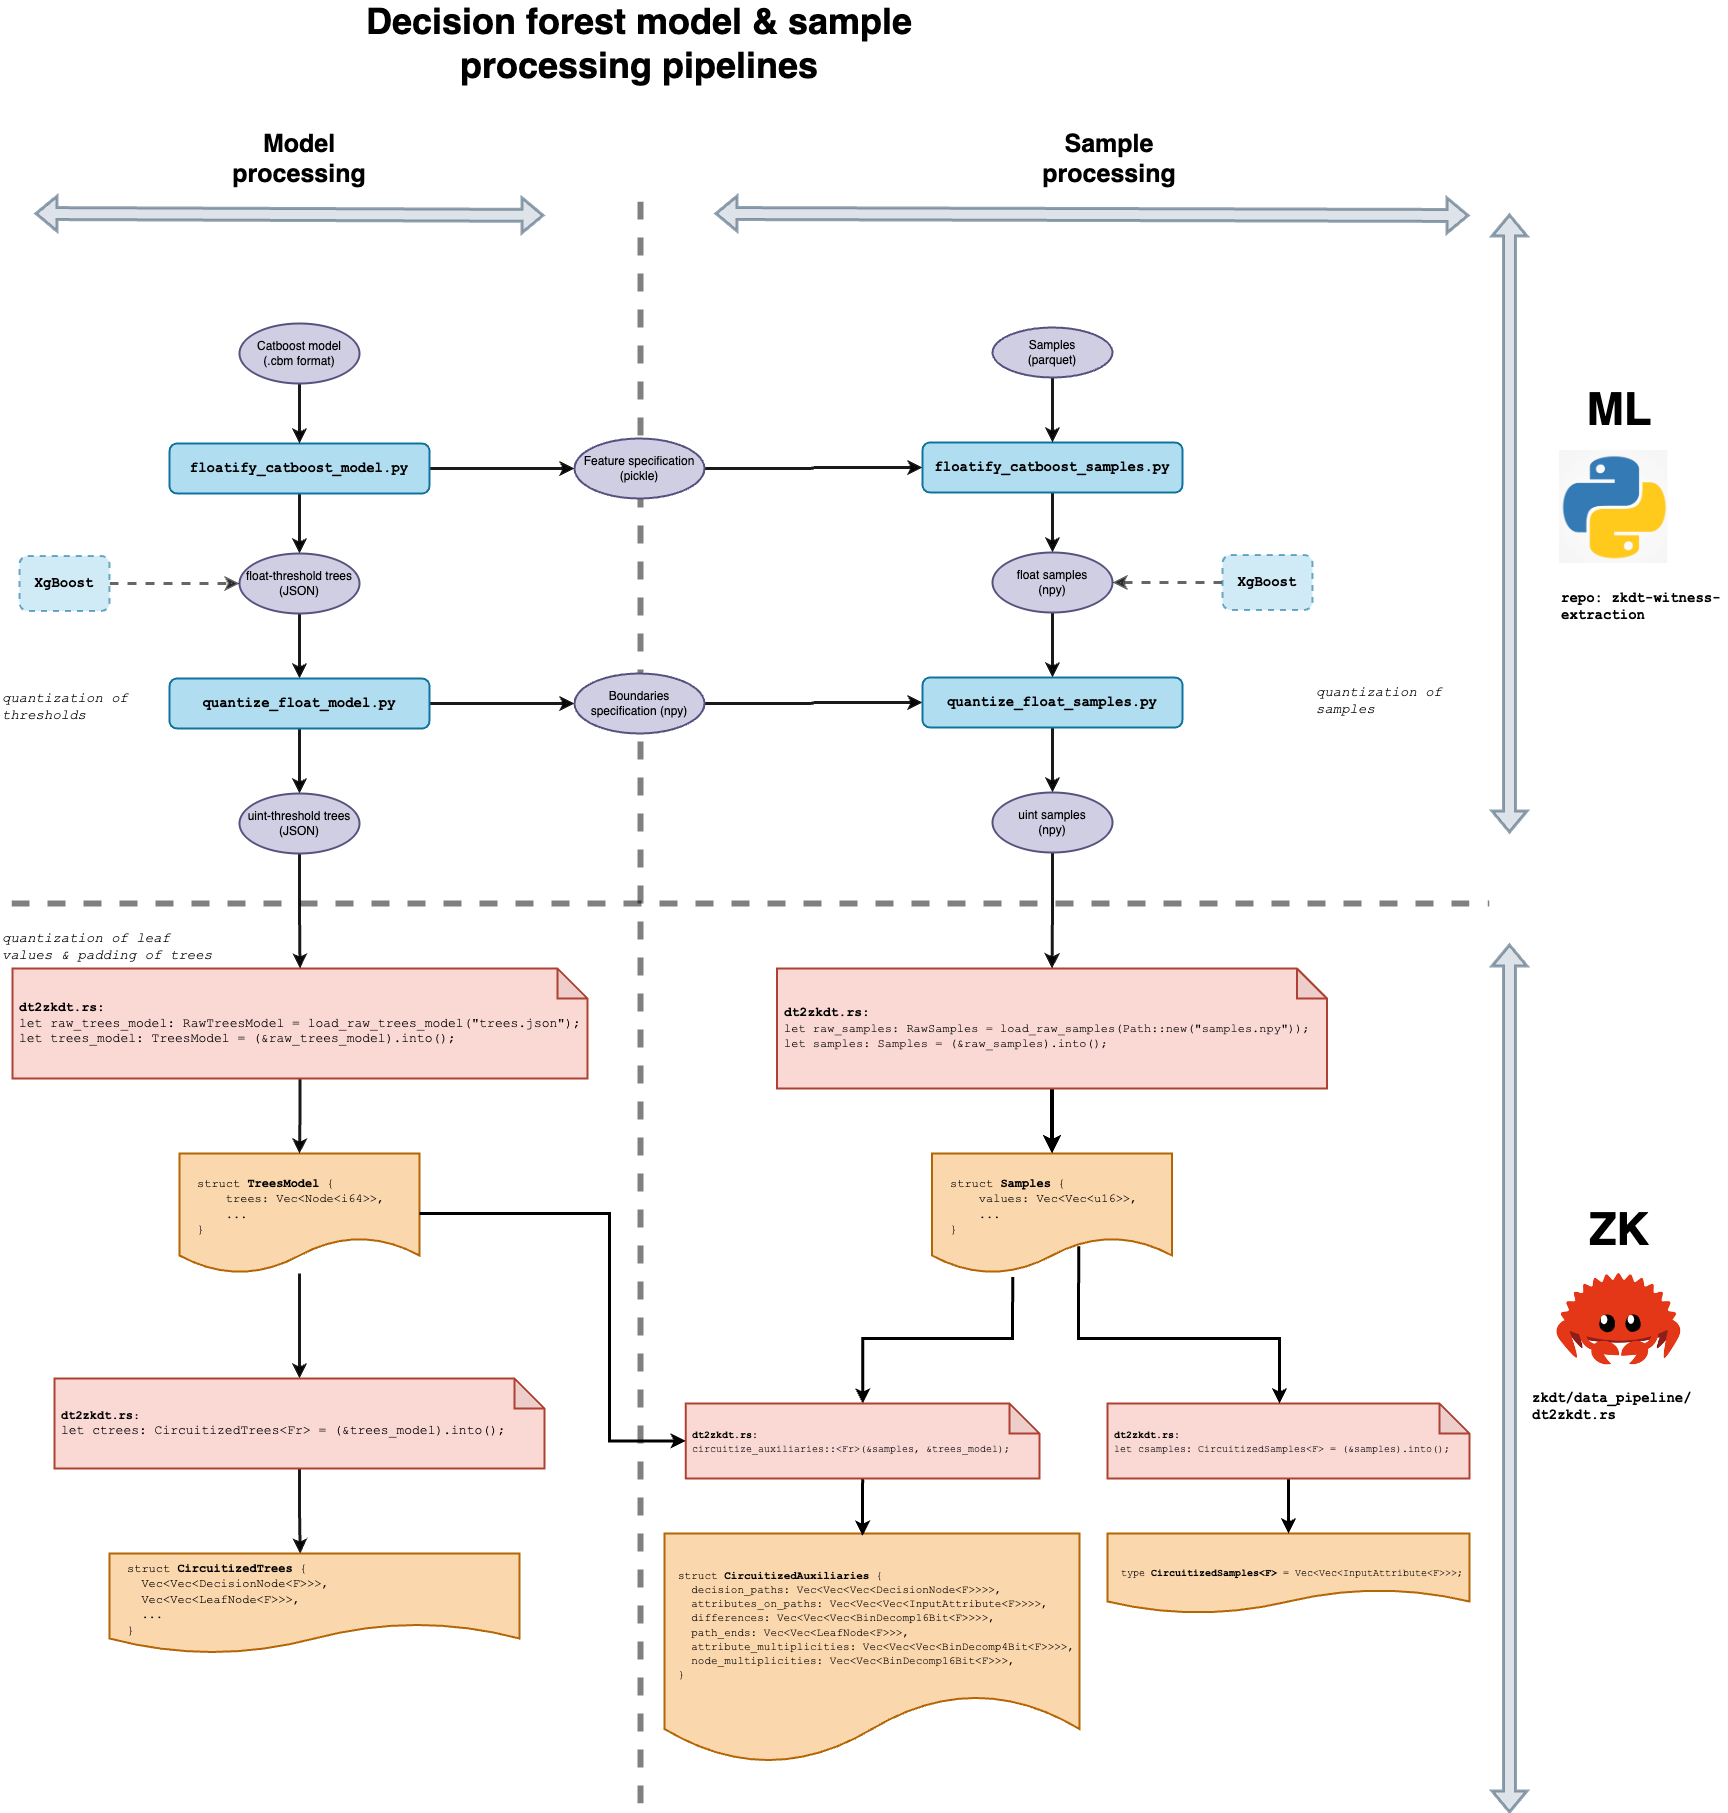
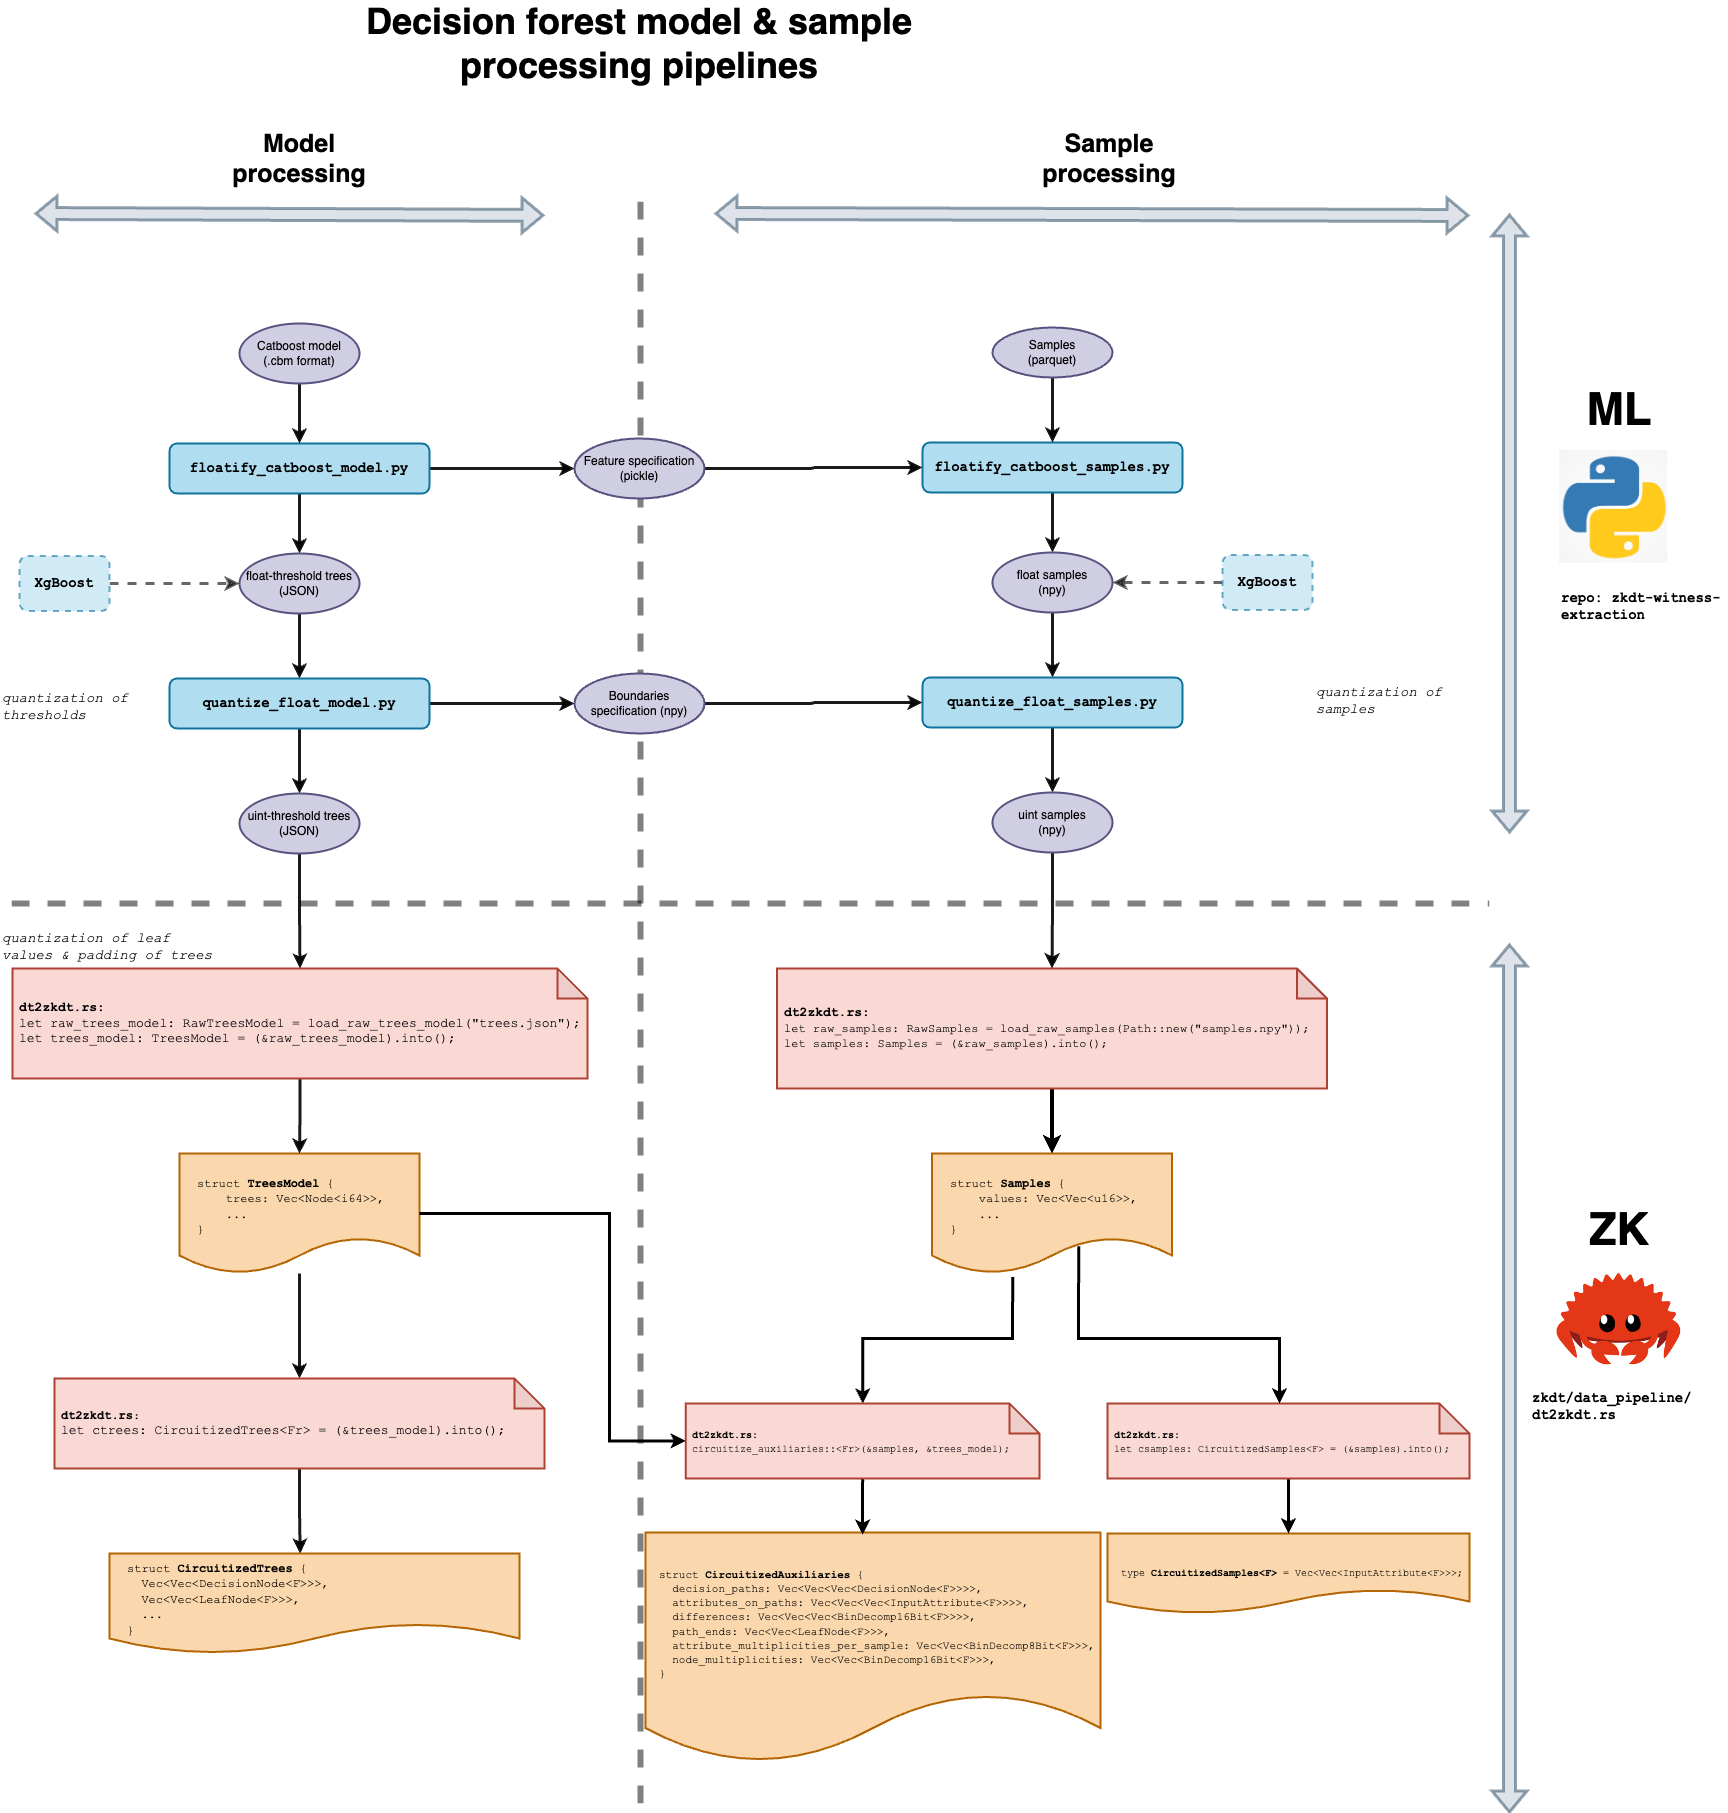
New auxiliary witness for attrib mult. aggd over trees

Changed region(s): [[0.375, 0.834, 0.6562, 0.9575]]

diff --git a/remainder_prover/src/zkdt/data_pipeline/dt2zkdt.rs b/remainder_prover/src/zkdt/data_pipeline/dt2zkdt.rs
@@ -64,7 +64,7 @@ use crate::zkdt::constants::{
 use crate::zkdt::data_pipeline::trees::*;
 use crate::zkdt::data_pipeline::helpers::*;
 use crate::zkdt::input_data_to_circuit_adapter::ZKDTCircuitData;
-use crate::zkdt::structs::{BinDecomp16Bit, BinDecomp4Bit, DecisionNode, InputAttribute, LeafNode};
+use crate::zkdt::structs::{BinDecomp16Bit, BinDecomp8Bit, BinDecomp4Bit, DecisionNode, InputAttribute, LeafNode};
 
 use ark_serialize::Read;
 use ark_std::log2;
@@ -141,7 +141,8 @@ pub struct CircuitizedAuxiliaries<F: FieldExt> {
     pub attributes_on_paths: Vec<Vec<Vec<InputAttribute<F>>>>,      // indexed by trees, samples, steps in path
     pub differences: Vec<Vec<Vec<BinDecomp16Bit<F>>>>,              // indexed by trees, samples, steps in path
     pub path_ends: Vec<Vec<LeafNode<F>>>,                           // indexed by trees, samples
-    pub attribute_multiplicities: Vec<Vec<Vec<BinDecomp4Bit<F>>>>,  // indexed by trees, samples, then by attribute index
+    pub attribute_multiplicities: Vec<Vec<Vec<BinDecomp4Bit<F>>>>,  // indexed by trees, samples, then by attribute index FIXME TO BE REMOVED (@Ben)
+    pub attribute_multiplicities_per_sample: Vec<Vec<BinDecomp8Bit<F>>>,  // indexed by samples, then by attribute index (so aggregated over trees)
     pub node_multiplicities: Vec<Vec<BinDecomp16Bit<F>>>,           // indexed by trees, tree nodes
 }
 
@@ -255,9 +256,15 @@ fn build_node_multiplicity_bindecomp<F: FieldExt>(multiplicity: usize) -> BinDec
      BinDecomp16Bit::<F>::from(bits)
 }
 
-fn build_attribute_multiplicity_bindecomp<F: FieldExt>(multiplicity: usize) -> BinDecomp4Bit<F> {
+/// FIXME TO BE REMOVED (@Ben)
+fn build_4bit_attribute_multiplicity_bindecomp<F: FieldExt>(multiplicity: usize) -> BinDecomp4Bit<F> {
      let bits = build_unsigned_bit_decomposition(multiplicity as u32, 4).unwrap();
      BinDecomp4Bit::<F>::from(bits)
+}
+
+fn build_8bit_attribute_multiplicity_bindecomp<F: FieldExt>(multiplicity: usize) -> BinDecomp8Bit<F> {
+     let bits = build_unsigned_bit_decomposition(multiplicity as u32, 8).unwrap();
+     BinDecomp8Bit::<F>::from(bits)
 }
 
 /// Build the witnesses for a single sample.
@@ -327,6 +334,7 @@ pub fn circuitize_auxiliaries<F: FieldExt>(
             })
         .collect();
 
+    // FIXME TO BE REMOVED (@Ben)
     let attribute_multiplicities: Vec<Vec<Vec<BinDecomp4Bit<F>>>> = paths
         .par_iter()
         .map(|tree_paths| {
@@ -336,10 +344,43 @@ pub fn circuitize_auxiliaries<F: FieldExt>(
                 .into_iter()
                 .map(|multiplicities| multiplicities
                      .into_iter()
-                     .map(build_attribute_multiplicity_bindecomp)
+                     .map(build_4bit_attribute_multiplicity_bindecomp)
                      .collect())
                 .collect()
         })
+        .collect();
+
+    // BUILD THE ATTRIBUTE MULTIPLICITIES, AGGD OVER TREES
+    // check that each tree has one path per sample ...
+    let sample_count: usize = samples_in.values.len();
+    assert!(paths.iter().all(|paths_for_tree| paths_for_tree.len() == sample_count));
+    // ... so that the nesting can be reversed, to become: samples first, then trees
+    let _paths_per_sample: Vec<Vec<TreePath<i64>>> = (0..sample_count)
+        .map(|sample_idx| {
+            paths
+                .iter()
+                .filter_map(|paths_for_tree| paths_for_tree.get(sample_idx))
+                .cloned()
+                .collect()
+        }).collect();
+
+    let attribute_multiplicities_per_sample: Vec<Vec<BinDecomp8Bit<F>>> = _paths_per_sample
+        .par_iter()
+        .map(|paths_of_sample| {
+            let mut multiplicities = vec![0_usize; samples_in.sample_length];
+            paths_of_sample
+                .iter()
+                .for_each(|path_of_sample_thru_tree| {
+                    path_of_sample_thru_tree.path_steps
+                        .iter()
+                        .for_each(|step| multiplicities[step.feature_index as usize] += 1);
+                });
+            multiplicities
+        })
+        .map(|multiplicities| multiplicities
+             .into_iter()
+             .map(build_8bit_attribute_multiplicity_bindecomp)
+             .collect())
         .collect();
 
     let node_multiplicities: Vec<Vec<BinDecomp16Bit<F>>> = paths
@@ -358,10 +399,12 @@ pub fn circuitize_auxiliaries<F: FieldExt>(
         differences,
         path_ends,
         attribute_multiplicities,
+        attribute_multiplicities_per_sample,
         node_multiplicities,
     }
 }
 
+/// FIXME TO BE REMOVED (@Ben)
 /// Given a vector of instances of [`PathStep`], return a vector counting how often each attribute
 /// is used.
 pub fn count_attribute_multiplicities(path_steps: &Vec<PathStep>, sample_length: usize) -> Vec<usize> {
@@ -591,6 +634,20 @@ mod tests {
         Node::new_internal(None, 1, 1, internal, right)
     }
 
+    /// Returns another small tree for testing:
+    ///       x[3]>=1?
+    ///        /    \
+    ///    x[4]>=2?  1.2
+    ///     /    \
+    ///  0.1      0.2
+    fn build_small_tree_variant() -> Node<f64> {
+        let left = Node::new_leaf(None, 0.1);
+        let middle = Node::new_leaf(None, 0.2);
+        let right = Node::new_leaf(None, 1.2);
+        let internal = Node::new_internal(None, 4, 2, left, middle);
+        Node::new_internal(None, 3, 1, internal, right)
+    }
+
     #[test]
     fn test_raw_trees_model_loading() {
         let filename = "src/zkdt/data_pipeline/test_qtrees.json";
@@ -759,6 +816,7 @@ mod tests {
                 assert_eq!(expected_bits.bits, bits.bits);
             });
 
+        // FIXME TO BE REMOVED (@Ben)
         // check attribute multiplicities
         // first, check their dimensions
         assert_eq!(caux.attribute_multiplicities.len(), n_trees);
@@ -775,9 +833,53 @@ mod tests {
         expected[1] = 1;
         am.iter().zip(expected.iter())
             .for_each(|(bits, expected)| {
-                let expected_bits = build_attribute_multiplicity_bindecomp::<Fr>(*expected);
+                let expected_bits = build_4bit_attribute_multiplicity_bindecomp::<Fr>(*expected);
                 assert_eq!(expected_bits.bits, bits.bits);
             })
+    }
+
+    #[test]
+    fn test_attribute_multiplicities_per_sample() {
+        let sample_length = 5;
+        let values = vec![
+            vec![0_u16; sample_length],
+            vec![2_u16, 0_u16, 0_u16, 0_u16, 0_u16],
+            vec![2_u16; sample_length],
+        ];
+        let raw_samples = RawSamples {
+            values,
+            sample_length
+        };
+
+        let raw_trees_model = RawTreesModel {
+            trees: vec![build_small_tree(), build_small_tree_variant()],
+            bias: 1.1,
+            scale: 6.6,
+            n_features: sample_length,
+        };
+        let trees_model: TreesModel = (&raw_trees_model).into();
+        let samples: Samples = (&raw_samples).into();
+        let caux = circuitize_auxiliaries::<Fr>(&samples, &trees_model);
+        
+        let am = caux.attribute_multiplicities_per_sample;
+        // check dimensions
+        assert_eq!(am.len(), samples.values.len());
+        for am_for_sample in &am {
+            assert_eq!(am_for_sample.len(), samples.sample_length);
+        }
+        // check some values
+        assert_eq!(am[0][0], build_8bit_attribute_multiplicity_bindecomp::<Fr>(1));
+        assert_eq!(am[0][1], build_8bit_attribute_multiplicity_bindecomp::<Fr>(1));
+        assert_eq!(am[0][2], build_8bit_attribute_multiplicity_bindecomp::<Fr>(0));
+        assert_eq!(am[0][3], build_8bit_attribute_multiplicity_bindecomp::<Fr>(1));
+        assert_eq!(am[0][4], build_8bit_attribute_multiplicity_bindecomp::<Fr>(1));
+        assert_eq!(am[0][5], build_8bit_attribute_multiplicity_bindecomp::<Fr>(0));
+        assert_eq!(am[2][0], build_8bit_attribute_multiplicity_bindecomp::<Fr>(2));
+        assert_eq!(am[2][1], build_8bit_attribute_multiplicity_bindecomp::<Fr>(1));
+        assert_eq!(am[2][2], build_8bit_attribute_multiplicity_bindecomp::<Fr>(0));
+        assert_eq!(am[2][3], build_8bit_attribute_multiplicity_bindecomp::<Fr>(1));
+        assert_eq!(am[2][4], build_8bit_attribute_multiplicity_bindecomp::<Fr>(0));
+        assert_eq!(am[2][5], build_8bit_attribute_multiplicity_bindecomp::<Fr>(0));
     }
 
     #[test]
@@ -945,6 +1047,7 @@ mod tests {
         assert_eq!(multiplicities, expected);
     }
 
+    // FIXME TO BE REMOVED (@Ben)
     #[test]
     fn test_count_attribute_multiplicities() {
         let sample_length: usize = 10;

diff --git a/remainder_prover/src/zkdt/structs.rs b/remainder_prover/src/zkdt/structs.rs
@@ -49,6 +49,7 @@ pub struct BinDecomp16Bit<F> {
     pub bits: [F; 16],
 }
 
+/// FIXME TO BE REMOVED (@Ben)
 #[derive(Copy, Debug, Clone, PartialEq, Serialize, Deserialize)]
 /// Used for the attribute multiplicities
 pub struct BinDecomp4Bit<F> {
@@ -56,6 +57,15 @@ pub struct BinDecomp4Bit<F> {
     ///
     /// Should all be 1 or 0
     pub bits: [F; 4],
+}
+
+#[derive(Copy, Debug, Clone, PartialEq, Serialize, Deserialize)]
+/// Used for the attribute multiplicities
+pub struct BinDecomp8Bit<F> {
+    ///The 8 bits that make up this decomposition
+    ///
+    /// Should all be 1 or 0
+    pub bits: [F; 8],
 }
 
 /// --- Input element to the tree, i.e. a list of input attributes ---
@@ -118,6 +128,15 @@ impl<F: FieldExt> From<Vec<bool>> for BinDecomp16Bit<F> {
     }
 }
 
+impl<F: FieldExt> From<Vec<bool>> for BinDecomp8Bit<F> {
+    fn from(bits: Vec<bool>) -> Self {
+        BinDecomp8Bit::<F> {
+            bits: bits.iter().map(|x| F::from(*x as u64)).collect::<Vec<F>>().try_into().unwrap()
+        }
+    }
+}
+
+// FIXME TO BE REMOVED (@Ben)
 impl<F: FieldExt> From<Vec<bool>> for BinDecomp4Bit<F> {
     fn from(bits: Vec<bool>) -> Self {
         BinDecomp4Bit::<F> {
